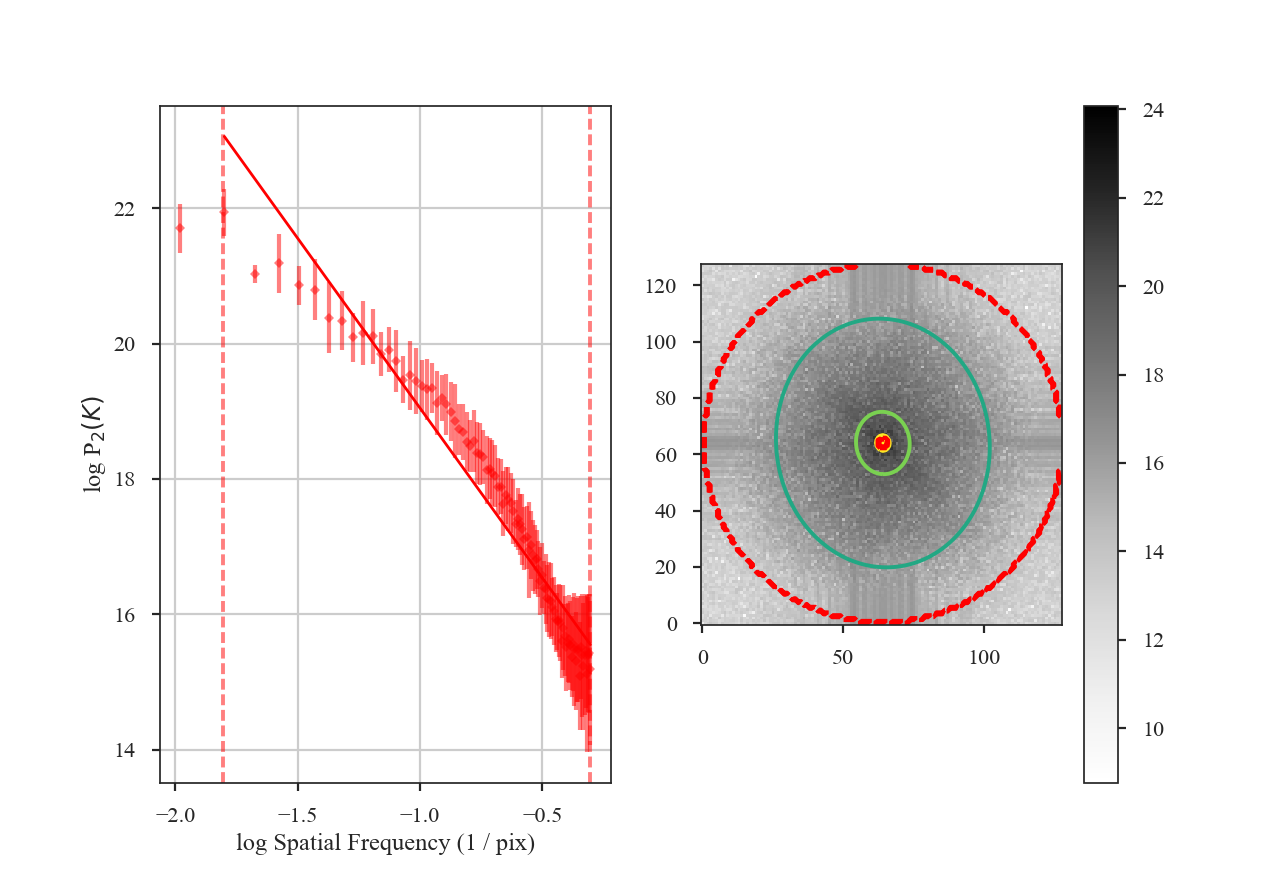
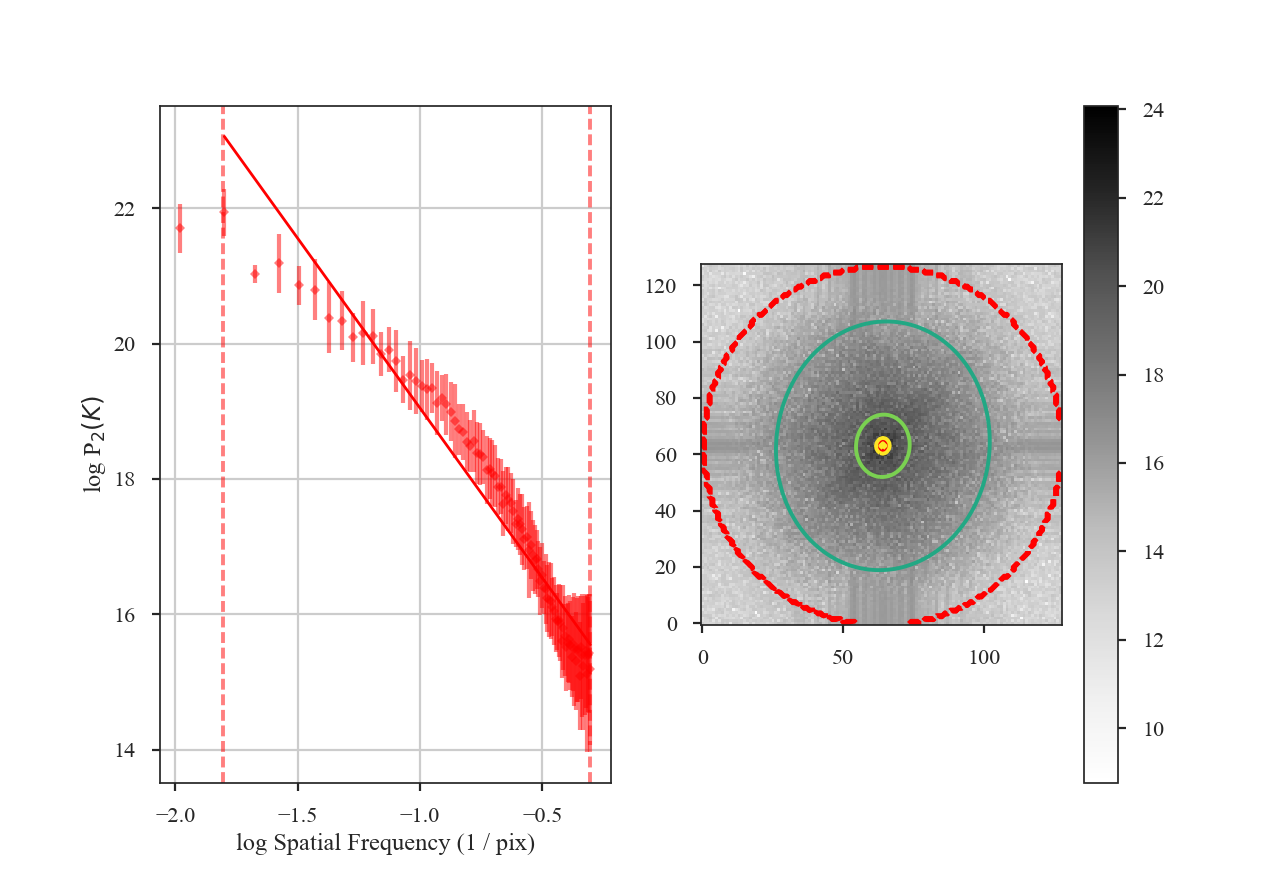
Update VCA and MVC tutorials; add on weighted-fitting and azimuthal constraints to each

diff --git a/docs/tutorials/statistics/code_for_tutorials.py b/docs/tutorials/statistics/code_for_tutorials.py
@@ -172,6 +172,14 @@ if run_mvc:
             high_cut=0.1 / u.pix, fit_2D=False,
             save_name=osjoin(fig_path, 'mvc_design4_physunits.png'))
 
+    # Azimuthal limits
+    mvc = MVC(centroid, moment0, lwidth, distance=250 * u.pc)
+    mvc.run(verbose=True, xunit=u.pc**-1, low_cut=0.02 / u.pix,
+            high_cut=0.1 / u.pix, fit_2D=False,
+            radial_pspec_kwargs={"theta_0": 1.13 * u.rad, "delta_theta": 40 * u.deg},
+            save_name=osjoin(fig_path, 'mvc_design4_physunits_azimlimits.png'))
+
+
 # PCA
 if run_pca:
 
@@ -334,6 +342,12 @@ if run_pspec:
               radial_pspec_kwargs={"theta_0": 1.13 * u.rad, "delta_theta": 40 * u.deg},
               save_name=osjoin(fig_path, "design4_pspec_breakfit_azimlimits.png"))
 
+    pspec = PowerSpectrum(moment0, distance=250 * u.pc)
+    pspec.run(verbose=True, xunit=u.pix**-1,
+              low_cut=0.025 / u.pix, high_cut=0.1 / u.pix,
+              weighted_fit=True,
+              save_name=osjoin(fig_path, "design4_pspec_limitedfreq_weightfit.png"))
+
 # SCF
 if run_scf:
 
@@ -456,6 +470,12 @@ if run_vca:
     vca_thicker.run(verbose=True, xunit=u.pc**-1, low_cut=0.02 / u.pix, high_cut=0.4 / u.pix,
                     brk=0.1 / u.pix, fit_2D=False,
                     save_name=osjoin(fig_path, "design4_vca_400ms_channels.png"))
+
+    # W/ azimuthal constraints
+    vca = VCA(cube)
+    vca.run(verbose=True, xunit=u.pix**-1, low_cut=0.02 / u.pix, high_cut=0.1 / u.pix,
+            radial_pspec_kwargs={"theta_0": 1.13 * u.rad, "delta_theta": 40 * u.deg},
+            save_name=osjoin(fig_path, "design4_vca_limitedfreq_azimilimits.png"))
 
 
 # VCS

diff --git a/docs/tutorials/statistics/vca_example.rst b/docs/tutorials/statistics/vca_example.rst
@@ -57,7 +57,7 @@ The VCA spectrum is computed using:
 
 The code returns a summary of the one-dimensional fit and a figure showing the one-dimensional spectrum and model on the left, and the two-dimensional power-spectrum on the right. If `fit_2D=True` is set in `~turbustat.statistics.VCA.run` (the default setting), the contours on the two-dimensional power-spectrum are the fit using an elliptical power-law model. We will discuss the models in more detail below. The dashed red lines (or contours) on both plots are the limits of the data used in the fits. See the :ref:`PowerSpectrum tutorial <pspec_tutorial>` for a discussion of the two-dimensional fitting.
 
-The VCA power spectrum from this simulated data cube is :math:`-4.25\pm0.08`, which is steeper than the power spectrum we found using the zeroth moment (:ref:`PowerSpectrum tutorial <pspec_tutorial>`). However, as was the case for the power-spectrum of the zeroth moment, there are deviation from a single power-law on small scales due to the inertial range in the simulation. The spatial frequencies used in the fit can be limited by setting `low_cut` and `high_cut`. The inputs should have frequency units in pixels, angle, or physical units. In this case, we will limit the fitting between frequencies of `0.02 / pix` and `0.1 / pix` (where the conversion to pixel scales in the simulation is just `1 / freq`):
+The VCA power spectrum from this simulated data cube is :math:`-4.25\pm0.08`, which is steeper than the power spectrum we found using the zeroth moment (:ref:`PowerSpectrum tutorial <pspec_tutorial>`). However, as was the case for the power-spectrum of the zeroth moment, there are deviations from a single power-law on small scales due to the inertial range in the simulation. The spatial frequencies used in the fit can be limited by setting `low_cut` and `high_cut`. The inputs should have frequency units in pixels, angle, or physical units. In this case, we will limit the fitting between frequencies of `0.02 / pix` and `0.1 / pix` (where the conversion to pixel scales in the simulation is just `1 / freq`):
 
     >>> vca.run(verbose=True, xunit=u.pix**-1, low_cut=0.02 / u.pix, high_cut=0.1 / u.pix)  # doctest: +SKIP
                                 OLS Regression Results
@@ -86,6 +86,8 @@ The VCA power spectrum from this simulated data cube is :math:`-4.25\pm0.08`, wh
 .. image:: images/design4_vca_limitedfreq.png
 
 With the fitting limited to the valid region, we find a shallower slope of :math:`-3.1\pm0.1` and a better fit to the model. `low_cut` and `high_cut` can also be given as spatial frequencies in angular units (e.g., `u.deg**-1`). When a distance is given, the `low_cut` and `high_cut` can also be given in physical frequency units (e.g., `u.pc**-1`).
+
+This example has used the default ordinary least-squares fitting. A weighted least-squares can be enabled with `weighted_fit=True` (this cannot be used for the segmented model described below).
 
 Breaks in the power-law behaviour in observations (and higher-resolution simulations) can result from differences in the physical processes dominating at those scales. To capture this behaviour, `VCA` can be passed a break point to enable fitting with a segmented linear model (`~turbustat.statistics.Lm_Seg`; see the description given in the :ref:`PowerSpectrum tutorial <pspec_tutorial>`). The 2D fitting is disabled for this section as it does handle fitting break points. In this example, we will assume a distance of 250 pc in order to show the power spectrum in physical units:
 
@@ -173,6 +175,38 @@ The Lazarian & Pogosyan theory predicts that the VCA power-spectrum depends on t
 .. image:: images/design4_vca_400ms_channels.png
 
 With the original spectral resolution, the slope in the inertial range was already consistent with the "thickest slice" case, the zeroth moment. The slope here remains consistent with the zeroth moment power-spectrum, so for this data set of :math:`^{13}{\rm CO}`, there is no evolution in the spectrum with channel size.
+
+
+Constraints on the azimuthal angles used to compute the one-dimensional power-spectrum can also be given:
+
+    >>> vca = VCA(cube)  # doctest: +SKIP
+    >>> vca.run(verbose=True, xunit=u.pix**-1, low_cut=0.02 / u.pix, high_cut=0.1 / u.pix, radial_pspec_kwargs={"theta_0": 1.13 * u.rad, "delta_theta": 40 * u.deg})  # doctest: +SKIP
+                                OLS Regression Results
+    ==============================================================================
+    Dep. Variable:                      y   R-squared:                       0.958
+    Model:                            OLS   Adj. R-squared:                  0.955
+    Method:                 Least Squares   F-statistic:                     298.9
+    Date:                Fri, 29 Sep 2017   Prob (F-statistic):           2.36e-10
+    Time:                        14:57:53   Log-Likelihood:                 11.566
+    No. Observations:                  15   AIC:                            -19.13
+    Df Residuals:                      13   BIC:                            -17.71
+    Df Model:                           1
+    Covariance Type:            nonrobust
+    ==============================================================================
+                     coef    std err          t      P>|t|      [0.025      0.975]
+    ------------------------------------------------------------------------------
+    const          4.2111      0.204     20.597      0.000       3.769       4.653
+    x1            -2.7475      0.159    -17.290      0.000      -3.091      -2.404
+    ==============================================================================
+    Omnibus:                       18.967   Durbin-Watson:                   2.608
+    Prob(Omnibus):                  0.000   Jarque-Bera (JB):               18.398
+    Skew:                          -1.869   Prob(JB):                     0.000101
+    Kurtosis:                       6.932   Cond. No.                         13.5
+    ==============================================================================
+
+.. image:: images/design4_vca_limitedfreq_azimilimits.png
+
+The azimuthal limits now appear as contours on the two-dimensional power-spectrum in the figure. See the :ref:`PowerSpectrum tutorial <pspec_tutorial>` for more information on giving azimuthal constraints.
 
 
 References

diff --git a/docs/tutorials/statistics/mvc_example.rst b/docs/tutorials/statistics/mvc_example.rst
@@ -104,7 +104,7 @@ The fit here is not very good since the spectrum deviates from a single power-la
 
 .. image:: images/mvc_design4_limitedfreq.png
 
-Note the drastic change in the slope! Specifying the correct fit region for the data you're using is critical for interpreting the results of the method.
+Note the drastic change in the slope! Specifying the correct fit region for the data you're using is critical for interpreting the results of the method. This example has used the default ordinary least-squares fitting. A weighted least-squares can be enabled with `weighted_fit=True` (this cannot be used for the segmented model described below).
 
 Breaks in the power-law behaviour in observations (and higher-resolution simulations) can result from differences in the physical processes dominating at those scales. To capture this behaviour, `MVC` can be passed a break point to enable fitting with a segmented linear model (`~turbustat.statistics.Lm_Seg`). Note that the 2D fitting is disabled for this section as it does handle fitting break points. From the above plot, we can estimate the break point to be near `0.1 / u.pix`:
 
@@ -140,7 +140,7 @@ Breaks in the power-law behaviour in observations (and higher-resolution simulat
 
 Many of the techniques in TurbuStat are derived from two-dimensional power spectra. Because of this, the radial averaging and fitting code for these techniques are contained within a common base class, `~turbustat.statistics.base_pspec2.StatisticBase_PSpec2D`. Fitting options may be passed as keyword arguments to `~turbustat.statistics.MVC.run`. Alterations to the power-spectrum binning can be passed in `~turbustat.statistics.MVC.compute_radial_pspec`, after which the fitting routine (`~turbustat.statistics.MVC.fit_pspec`) may be run.
 
-Finally, the frequency units of the final plot (`xunit`) and the units of `low_cut` and `high_cut` can be given in angular units, as well as physical units when a distance is given. For example:
+The frequency units of the final plot (`xunit`) and the units of `low_cut` and `high_cut` can be given in angular units, as well as physical units when a distance is given. For example:
 
     >>> mvc = MVC(centroid, moment0, lwidth, distance=250 * u.pc)  # doctest: +SKIP
     >>> mvc.run(verbose=True, xunit=u.pc**-1, low_cut=0.02 / u.pix, high_cut=0.1 / u.pix, fit_2D=False)  # doctest: +SKIP
@@ -170,6 +170,37 @@ Finally, the frequency units of the final plot (`xunit`) and the units of `low_c
 .. image:: images/mvc_design4_physunits.png
 
 Alternatively, the fitting limits could be passed in units of `u.pc**-1`.
+
+Constraints on the azimuthal angles used to compute the one-dimensional power-spectrum can also be given:
+
+    >>> mvc = MVC(centroid, moment0, lwidth, distance=250 * u.pc)  # doctest: +SKIP
+    >>> mvc.run(verbose=True, xunit=u.pc**-1, low_cut=0.02 / u.pix, high_cut=0.1 / u.pix, fit_2D=False, radial_pspec_kwargs={"theta_0": 1.13 * u.rad, "delta_theta": 40 * u.deg})  # doctest: +SKIP
+                                OLS Regression Results
+    ==============================================================================
+    Dep. Variable:                      y   R-squared:                       0.806
+    Model:                            OLS   Adj. R-squared:                  0.791
+    Method:                 Least Squares   F-statistic:                     53.85
+    Date:                Fri, 29 Sep 2017   Prob (F-statistic):           5.68e-06
+    Time:                        14:51:27   Log-Likelihood:                 1.4445
+    No. Observations:                  15   AIC:                             1.111
+    Df Residuals:                      13   BIC:                             2.527
+    Df Model:                           1
+    Covariance Type:            nonrobust
+    ==============================================================================
+                     coef    std err          t      P>|t|      [0.025      0.975]
+    ------------------------------------------------------------------------------
+    const         17.3709      0.401     43.271      0.000      16.504      18.238
+    x1            -2.2897      0.312     -7.338      0.000      -2.964      -1.616
+    ==============================================================================
+    Omnibus:                        1.198   Durbin-Watson:                   2.743
+    Prob(Omnibus):                  0.549   Jarque-Bera (JB):                0.809
+    Skew:                          -0.185   Prob(JB):                        0.667
+    Kurtosis:                       1.924   Cond. No.                         13.5
+    ==============================================================================
+
+.. image:: images/mvc_design4_physunits_azimlimits.png
+
+The azimuthal limits now appear as contours on the two-dimensional power-spectrum in the figure. See the :ref:`PowerSpectrum tutorial <pspec_tutorial>` for more information on giving azimuthal constraints.
 
 References
 ----------
